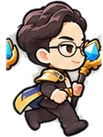
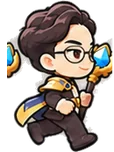
Bust stale asset cache; resize 추진팀장 run and 사업팀장
- Append ?v=<deploy id> to sprite, UI image and audio URLs and move hashed
  bundles to /build so /assets is no longer cached as immutable for a year
  (phones were still showing the old glasses-less 추진팀장 frames)
- 추진팀장 run frames now match the standing height
- 사업팀장 displayed slightly larger (82 → 87) with name tag/HP bar following

Claude-Session: https://claude.ai/code/session_01MvzzvQc6xr2KAW6vgqiYJS

diff --git a/src/scenes/GameScene.ts b/src/scenes/GameScene.ts
@@ -47,9 +47,10 @@ const minionAnim = (k: string): Unit['anim'] => ({
   hit: `m_${k}_hit`,
 });
 const mv = (k: string, h = 58): ViewDef => ({ tex: `m_${k}_idle`, h, r: 16, hpW: 32, hpY: -h - 8, anim: minionAnim(k) });
-/** 팀장 NPC: 일반 미니언(58)의 약 1.4배 */
+/** 팀장 NPC: 일반 미니언(58)의 약 1.4배. 사업팀장 그림은 인물이 작게 그려져 있어 조금 크게 표시 */
+const CAP_H: Record<string, number> = { push: 82, dev: 82, biz: 87 };
 const capView = (t: string): ViewDef => ({
-  tex: `cap_${t}_idle_0`, h: 82, r: 20, hpW: 44, hpY: -92,
+  tex: `cap_${t}_idle_0`, h: CAP_H[t], r: 20, hpW: 44, hpY: -CAP_H[t] - 10,
   anim: {
     idle: t === 'biz' ? ['cap_biz_idle_0', 'cap_biz_idle_1', 'cap_biz_idle_2', 'cap_biz_idle_3'] : [`cap_${t}_idle_0`],
     run: [0, 1, 2, 3].map((i) => `cap_${t}_run_${i}`),
@@ -493,7 +494,7 @@ export class GameScene extends Phaser.Scene implements LaneHost {
       u.setHpColor(0x3d9bff);
       u.refreshHp();
       // 이름표 + 패시브 범위 표시
-      const tag = gameText(this, 0, -108, def.name, 'captain');
+      const tag = gameText(this, 0, -CAP_H[team] - 26, def.name, 'captain');
       const aura = this.add.image(0, 2, 'fx_ring').setTint(TEAM_COLOR[team]).setAlpha(0.28);
       aura.setDisplaySize(BALANCE.captains.passiveRadius * 2, BALANCE.captains.passiveRadius * 1.24);
       u.view.addAt(aura, 0);

diff --git a/src/scenes/BootScene.ts b/src/scenes/BootScene.ts
@@ -1,3 +1,4 @@
+import { ver } from '../core/assetVersion';
 import Phaser from 'phaser';
 import * as S from '../art/svgs';
 import { runtime } from '../config/runtime';
@@ -51,9 +52,9 @@ export class BootScene extends Phaser.Scene {
     const overrides = runtime.assets.images || {};
     this.load.on('progress', (v: number) => bus.emit('loading', v * 0.9));
     this.load.on('loaderror', (file: Phaser.Loader.File) => this.failed.add(file.key));
-    for (const key of SPRITE_KEYS) this.load.image(key, overrides[key] || `assets/game/${key}.webp`);
-    this.load.image('tile_grass', overrides.tile_grass || 'assets/game/tile_grass.webp');
-    for (const key of Object.keys(SVG_ONLY)) if (overrides[key]) this.load.image(key, overrides[key]);
+    for (const key of SPRITE_KEYS) this.load.image(key, ver(overrides[key] || `assets/game/${key}.webp`));
+    this.load.image('tile_grass', ver(overrides.tile_grass || 'assets/game/tile_grass.webp'));
+    for (const key of Object.keys(SVG_ONLY)) if (overrides[key]) this.load.image(key, ver(overrides[key]));
   }
 
   create() {

diff --git a/vite.config.ts b/vite.config.ts
@@ -7,11 +7,14 @@ const EDITION = process.env.EDITION === 'private' ? 'private' : 'public';
 
 export default defineConfig({
   base: './',
-  define: { __EDITION__: JSON.stringify(EDITION) },
+  // __BUILD_ID__: 배포마다 바뀌는 값 → 그림·소리 주소 뒤에 붙여 휴대폰이 예전 파일을 계속 쓰지 않게 함
+  define: { __EDITION__: JSON.stringify(EDITION), __BUILD_ID__: JSON.stringify((process.env.CF_PAGES_COMMIT_SHA || Date.now().toString(36)).slice(0, 10)) },
   // 판별 콘텐츠(영상 목록·엔딩 문구): content/public 또는 content/private 중 하나만 번들에 포함
   resolve: { alias: { '@content': fileURLToPath(new URL(`./content/${EDITION}`, import.meta.url)) } },
   build: {
     target: 'es2020',
+    // 해시가 붙은 빌드 산출물은 /build/ 에 두어 장기 캐시, public/assets(그림·소리)와 분리
+    assetsDir: 'build',
     chunkSizeWarningLimit: 2000,
     rollupOptions: { output: { manualChunks: { phaser: ['phaser'] } } },
   },

diff --git a/src/audio/audio.ts b/src/audio/audio.ts
@@ -1,3 +1,4 @@
+import { ver } from '../core/assetVersion';
 import { runtime } from '../config/runtime';
 import { save } from '../core/save';
 
@@ -101,7 +102,7 @@ class AudioEngine {
     for (const key of Object.keys(audio)) {
       const url = audio[key];
       if (!url || key.startsWith('bgm') || key.startsWith('_')) continue;
-      fetch(url)
+      fetch(ver(url))
         .then((r) => (r.ok ? r.arrayBuffer() : Promise.reject()))
         .then((buf) => this.ctx!.decodeAudioData(buf))
         .then((ab) => this.files.set(key, ab))
@@ -124,7 +125,7 @@ class AudioEngine {
       el = new Audio();
       el.preload = 'none';
       el.loop = true;
-      el.src = url;
+      el.src = ver(url);
       el.setAttribute('playsinline', '');
       this.bgmPool.set(url, el);
     }

diff --git a/src/ui/ui.ts b/src/ui/ui.ts
@@ -1,3 +1,4 @@
+import { ver } from '../core/assetVersion';
 import { bus } from '../core/events';
 import { fsm, GameState } from '../core/state';
 import { save } from '../core/save';
@@ -44,7 +45,7 @@ function later(fn: () => void, ms: number) {
  * 루트 배포(https://x/)와 하위 경로 배포(https://x/sindoh/) 모두 동작합니다.
  */
 export const assetUrl = (path: string) => new URL(path, document.baseURI).href;
-const G = (k: string) => assetUrl(`assets/game/${k}.webp`);
+const G = (k: string) => ver(assetUrl(`assets/game/${k}.webp`));
 /** 일러스트 이미지 + 로딩 실패 시 내장 SVG 대체 */
 function artImg(src: string, fallbackPose: 'idle' | 'victory', cls = '', alt = '') {
   const fb = svgDataUrl(championSvg(fallbackPose));

diff --git a/src/core/assetVersion.ts b/src/core/assetVersion.ts
@@ -1,0 +1,5 @@
+/** 정적 파일 주소에 배포 버전을 붙임: 배포가 바뀌면 주소가 바뀌어 브라우저 캐시의 예전 그림·소리를 쓰지 않음 */
+export function ver(url: string): string {
+  if (!url || /^(data|blob):/.test(url)) return url;
+  return url + (url.includes('?') ? '&' : '?') + 'v=' + __BUILD_ID__;
+}

diff --git a/src/edition.d.ts b/src/edition.d.ts
@@ -1,2 +1,4 @@
 /** 빌드 시 결정되는 배포 판: 'public'(포트폴리오) | 'private'(선물) */
 declare const __EDITION__: 'public' | 'private';
+/** 빌드 식별값 (그림·소리 캐시 무효화용) */
+declare const __BUILD_ID__: string;

diff --git a/tools/build_sprites.py b/tools/build_sprites.py
@@ -295,6 +295,8 @@ POSE_RATIO_TEAMS = ('push', 'dev')
 POSE_RATIO = {'run': 0.95, 'atk': 1.0, 'victory': 1.0}
 # 추진팀장 대기 그림(단독 일러스트)은 시트보다 머리가 작은 비율이라, 동작 그림을 조금 낮춰야 같은 크기로 보임
 POSE_TEAM_K = {'push': 0.9, 'dev': 1.0}
+# 달리기는 몸을 숙인 자세라 작아 보이므로 추진팀장은 머리 비율 보정(0.9)을 빼고 서 있을 때 키에 맞춤
+POSE_RUN_K = {'push': 1.0, 'dev': 1.0}
 
 def fig_height(im):
     """이펙트(파란 글로우·노란 빛)를 뺀 인물 덩어리의 세로 길이"""
@@ -342,7 +344,7 @@ for team, (fname, needs_bg, B) in CAPTAINS.items():
             return POSE_TEAM_K[team] * ratio * idle_fig / fig_height(im)
         run_scales = []
         for i, b in enumerate(B['run']):
-            im = largest(crop(sheet, *b)); sc = fit(im, POSE_RATIO['run']); run_scales.append(sc)
+            im = largest(crop(sheet, *b)); sc = fit(im, POSE_RATIO['run']) * POSE_RUN_K[team] / POSE_TEAM_K[team]; run_scales.append(sc)
             save(f'cap_{team}_run_{i}', im, scale=sc, center=True)
         for i, b in enumerate(B['atk']):
             im = largest(crop(sheet, *b))
